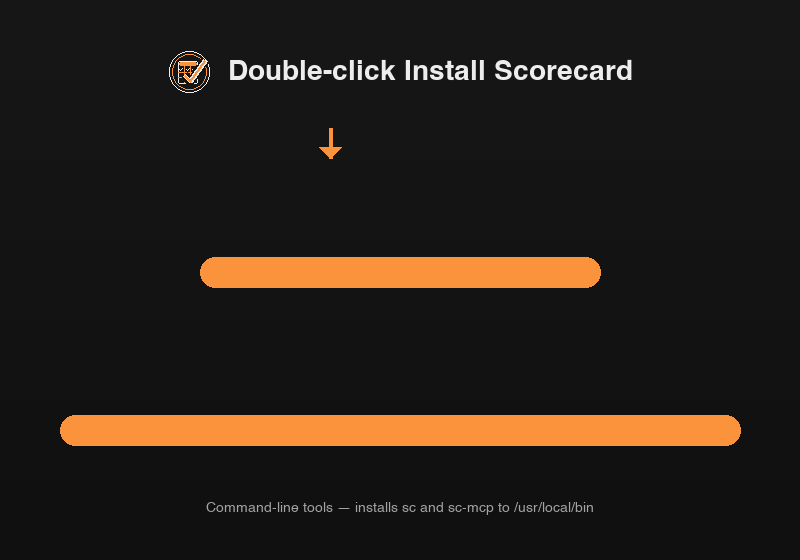
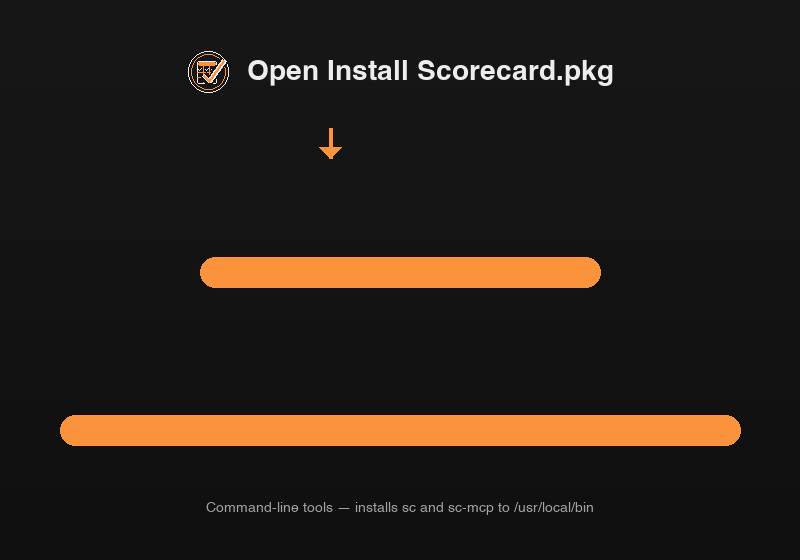
Replace the DMG install script with a signed package.
Gatekeeper on macOS 27 blocks the unsigned command file inside the disk image. The package installs sc and sc-mcp to /usr/local/bin and is also uploaded as sc-v<version>-macos.pkg.

Changed region(s): [[0.2188, 0.0911, 0.8125, 0.1821]]

diff --git a/packaging/dmg-settings.py b/packaging/dmg-settings.py
@@ -2,7 +2,7 @@
 # Built with dmgbuild==1.6.5: dmgbuild -s packaging/dmg-settings.py
 # "Scorecard $ver" dist/sc-....dmg
 # Icon positions are fixed Finder content coordinates. The installer
-# script sits prominent at left center with INSTALL.txt beside it;
+# package sits prominent at left center with INSTALL.txt beside it;
 # the binaries, README, and LICENSE form a lower row. No
 # /Applications link: these are CLI tools, dragging them to
 # Applications would not put them on PATH.
@@ -21,7 +21,7 @@ filesystem = "HFS+"
 size = None
 
 files = [os.path.join(stage, name) for name in (
-    "Install Scorecard.command",
+    "Install Scorecard.pkg",
     "INSTALL.txt",
     "sc",
     "sc-mcp",
@@ -45,7 +45,7 @@ show_pathbar = False
 show_sidebar = False
 
 icon_locations = {
-    "Install Scorecard.command": (330, 210),
+    "Install Scorecard.pkg": (330, 210),
     "INSTALL.txt": (470, 210),
     "sc": (130, 368),
     "sc-mcp": (310, 368),

diff --git a/packaging/make-dmg-background.py b/packaging/make-dmg-background.py
@@ -99,7 +99,7 @@ def draw(scale):
     label_band(d, 60, 740, 430, s)
     # Heading group: logo plus centered headline, 40px+ top padding.
     face = font(28 * s, bold=True)
-    label = "Double-click Install Scorecard"
+    label = "Open Install Scorecard.pkg"
     left, _, right, _ = d.textbbox((0, 0), label, font=face)
     gap = 16 * s
     logo_size = 44 * s

diff --git a/README.md b/README.md
@@ -10,7 +10,7 @@
 
 Release [v0.1.0](https://github.com/moonbase2090/Scorecard/releases/tag/v0.1.0).
 
-macOS, Apple silicon and Intel in one disk image: [sc-v0.1.0-universal-apple-darwin.dmg](https://github.com/moonbase2090/Scorecard/releases/download/v0.1.0/sc-v0.1.0-universal-apple-darwin.dmg).
+macOS, Apple silicon and Intel in one disk image: [sc-v0.1.0-universal-apple-darwin.dmg](https://github.com/moonbase2090/Scorecard/releases/download/v0.1.0/sc-v0.1.0-universal-apple-darwin.dmg). Open `Install Scorecard.pkg` in that window. It installs `sc` and `sc-mcp` to `/usr/local/bin`. The same installer is also published on its own as `sc-v<version>-macos.pkg`. The v0.1.0 image still has the older install script; the package replaces it in the next release.
 
 Each `.tar.gz` contains `sc`, `sc-mcp`, `LICENSE`, and `README.md` at the top of the archive.
 

diff --git a/CHANGELOG.md b/CHANGELOG.md
@@ -7,7 +7,7 @@ The format is based on [Keep a Changelog](https://keepachangelog.com/en/1.1.0/).
 ### Added
 
 - Document the HTML report, including the flow strip, in the readme and in `docs/html-report.md`.
-- The macOS disk image ships `INSTALL.txt` and a double-clickable `Install Scorecard.command` that installs `sc` and `sc-mcp` to `/usr/local/bin` (or `~/.local/bin` without admin rights).
+- The macOS disk image ships `INSTALL.txt` and a signed `Install Scorecard.pkg` that installs `sc` and `sc-mcp` to `/usr/local/bin`. The same package is a release asset named `sc-v<version>-macos.pkg`.
 
 ### Fixed
 
